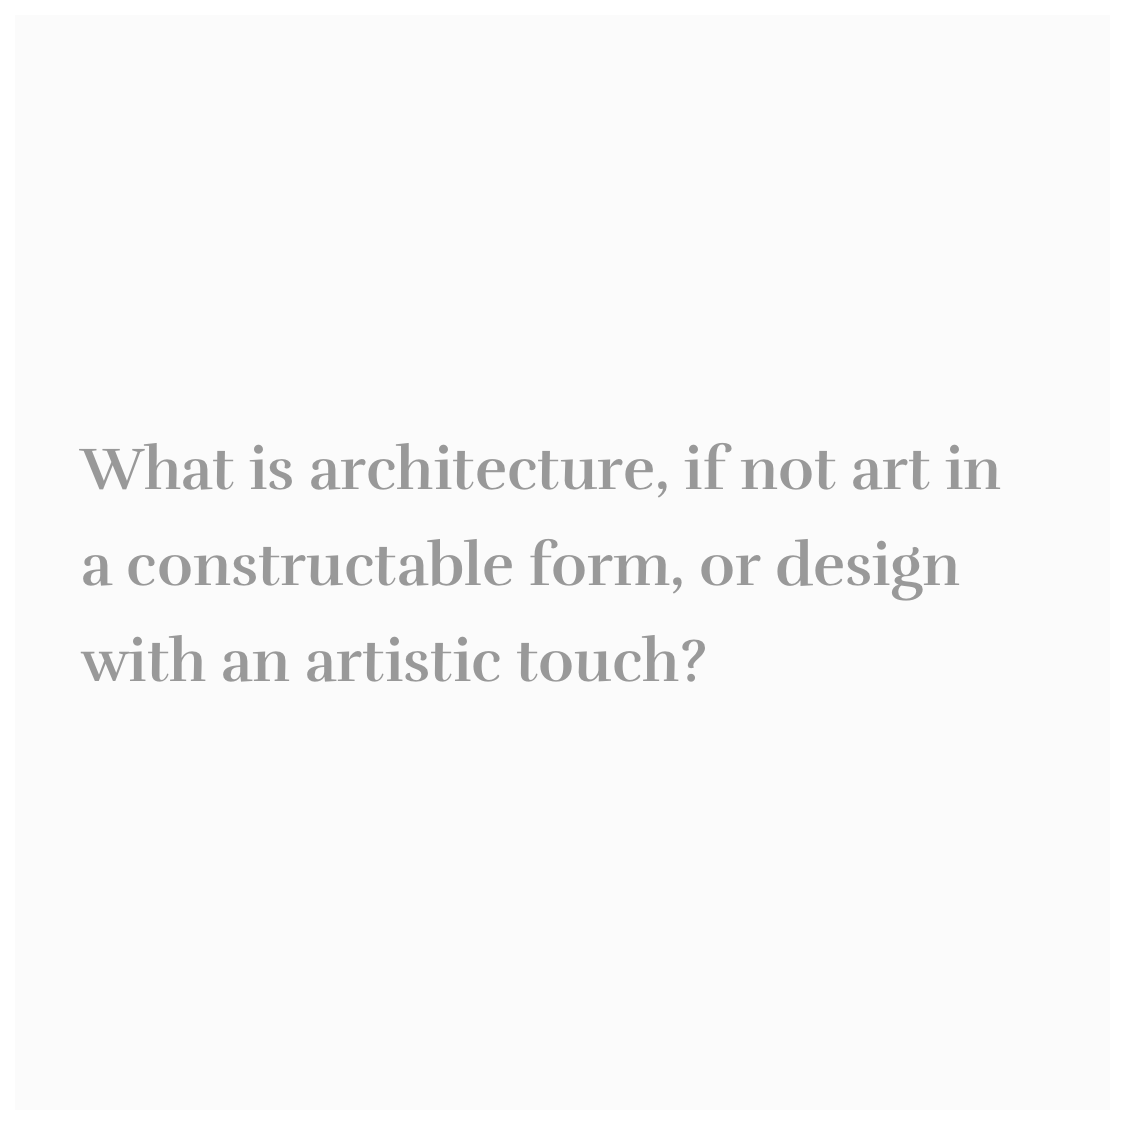
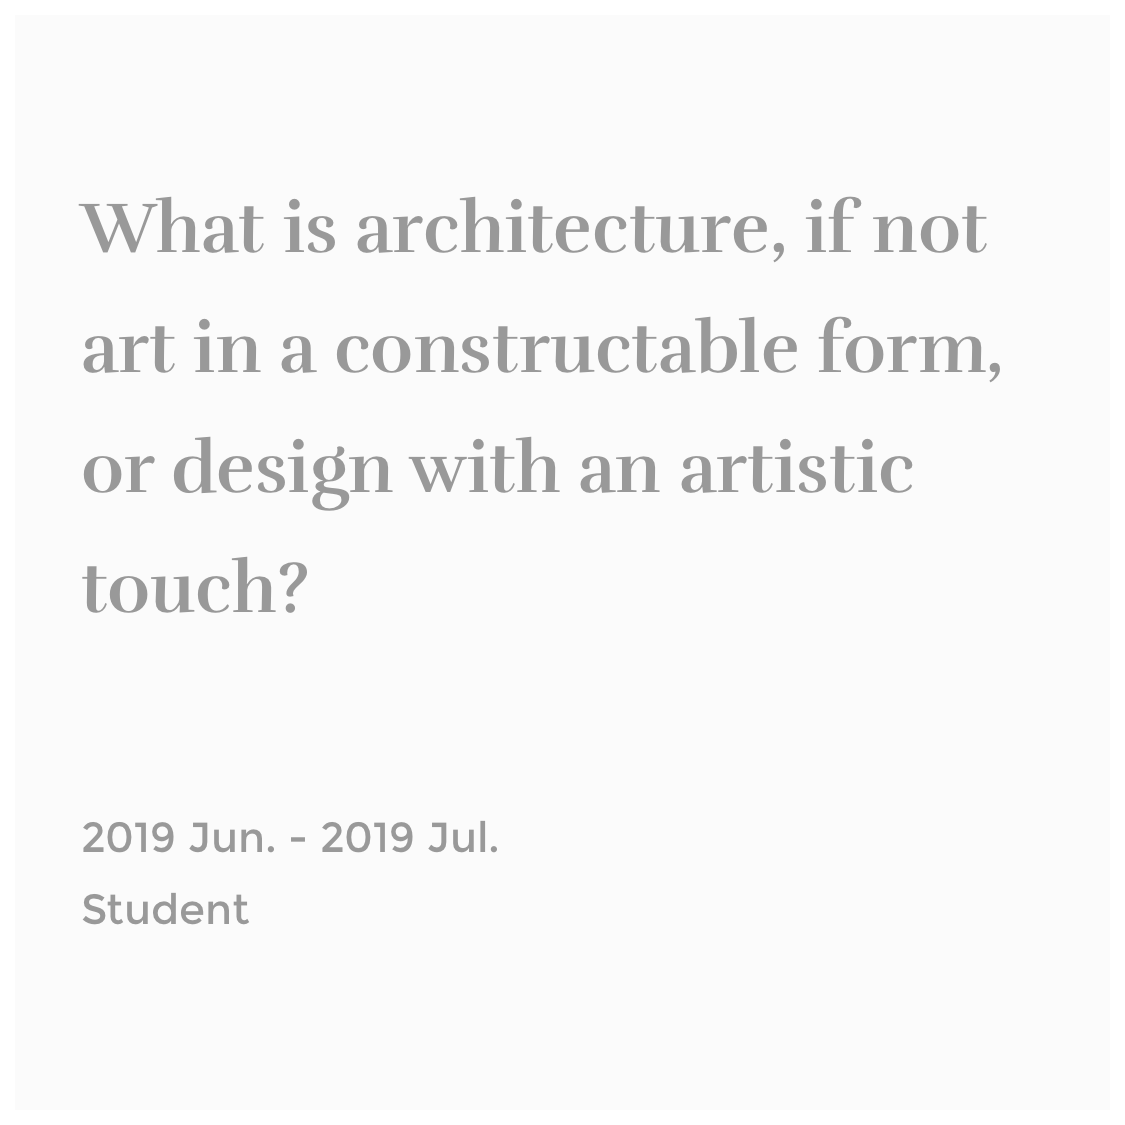
Some updates on the PFM page. With additional images.

diff --git a/work-juggle.html b/work-juggle.html
@@ -260,23 +260,27 @@
 
 
                        <p>To tie back to our potential service offerings, I decided to trim down the solution approach, starting from the tone of approach, to some of the key engagement points through a customer's journey. Thereafter generalized the common problems they are facing, and proposed a solution applicable to those problems. </p>
-                       <figure>
-                            <img src="img/work-pfm/part2-pfm-tone.jpg" class="img-content">
-                            <figcaption>Service offering: Tone of approach </figcaption>
-                            <div class="h-30"></div>
 
-                            <img src="img/work-pfm/part2-pfm-engagement.jpg" class="img-content">
-                            <figcaption>Service offering: Points of engagement (Overview) </figcaption>
-                            <div class="h-30"></div>
+                        <button class="accordion"> The process in more details </button>
+                        <div class="panel"> 
+                           <figure>
+                                <img src="img/work-pfm/part2-pfm-tone.jpg" class="img-content">
+                                <figcaption>Service offering: Tone of approach </figcaption>
+                                <div class="h-30"></div>
 
-                            <img src="img/work-pfm/part2-pfm-problems.jpg" class="img-content">
-                            <figcaption>Service offering: List of common problems </figcaption>
-                            <div class="h-30"></div>
+                                <img src="img/work-pfm/part2-pfm-engagement.jpg" class="img-content">
+                                <figcaption>Service offering: Points of engagement (Overview) </figcaption>
+                                <div class="h-30"></div>
 
-                            <img src="img/work-pfm/part2-pfm-solutions.jpg" class="img-content">
-                            <figcaption>Service offering: List of proposed solutions </figcaption>
-                            <div class="h-30"></div>
-                        </figure>
+                                <img src="img/work-pfm/part2-pfm-problems.jpg" class="img-content">
+                                <figcaption>Service offering: List of common problems </figcaption>
+                                <div class="h-30"></div>
+
+                                <img src="img/work-pfm/part2-pfm-solutions.jpg" class="img-content">
+                                <figcaption>Service offering: List of proposed solutions </figcaption>
+                                <div class="h-30"></div>
+                            </figure>
+                        </div>
 
                        <p>This is where I concluded with the key focus point and the overall directions of the solutions:  </p>
                        <figure>
@@ -293,6 +297,136 @@
             </section>            
 
 
+           <!-- content sub section-->
+            <section>
+                <div class="row page-info">
+                    <div class="col-lg-4 col-md-4 col-sm-12 col-xs-12">
+                        <h4>PFM Strategies</h4>                      
+                    </div>
+                    <div class="col-lg-8 col-md-8 col-sm-12 col-xs-12">
+                        <div class="page-content">
+
+                       <p>Introducing the main characters:  </p>
+                       <figure>
+                            <img src="img/work-pfm/part3-pfm-characters.jpg" class="img-content">
+                            <figcaption>Introducing the main characters </figcaption>
+                            <div class="h-30"></div>
+                        </figure>
+
+                        <figure>
+                            <img src="img/work-pfm/part3-pfm-concept.jpg" class="img-content" onclick="document.getElementById('concepts').style.display='block'" id="myImg">
+
+                            <div id="concepts" class="modal">
+                                  <span class="close" onclick="document.getElementById('concepts').style.display='none'">&times;</span>
+                                  <div id="caption">A concept explanation </div>
+                                  <img src="img/work-pfm/part3-pfm-concept.jpg" class="modal-content">
+                            </div>
+                            <figcaption>A concept explanation </figcaption>
+                        </figure>                            
+
+
+                        <button class="accordion"> See our main characters in their more specific use cases </button>
+                        <div class="panel"> 
+                           <figure>
+                                <img src="img/work-pfm/part3-pfm-case1.jpg" class="img-content">
+                                <figcaption>User case I: When there is extra disposable cash </figcaption>
+                                <div class="h-30"></div>
+
+                                <img src="img/work-pfm/part3-pfm-case2.jpg" class="img-content">
+                                <figcaption>User case II: Excess amount in long term goal saving </figcaption>
+                                <div class="h-30"></div>
+
+                                <img src="img/work-pfm/part3-pfm-case3.jpg" class="img-content">
+                                <figcaption>User case III: Insufficient urgent usage </figcaption>
+                                <div class="h-30"></div>
+
+                                <img src="img/work-pfm/part3-pfm-case4.jpg" class="img-content">
+                                <figcaption>User case IV: When there is bonus/unexpected income </figcaption>
+                                <div class="h-30"></div>
+                            </figure>
+                        </div>
+                        <div class="h-30"></div>
+
+                        <p>With all the different resolutions, the next question is how do we prioritize them?  </p>
+
+                       <figure>
+                            <img src="img/work-pfm/part3-pfm-prioritization.jpg" class="img-content">
+                            <figcaption>Prioritization, in terms of importance, urgency, emotional responses </figcaption>
+                            <div class="h-30"></div>
+                        </figure>
+
+                        </div>
+                    </div>
+                </div>
+            </section>            
+
+
+           <!-- content sub section-->
+            <section>
+                <div class="row page-info">
+                    <div class="col-lg-4 col-md-4 col-sm-12 col-xs-12">
+                        <h4>Extended examples & design </h4>                      
+                    </div>
+                    <div class="col-lg-8 col-md-8 col-sm-12 col-xs-12">
+                        <div class="page-content">
+
+                        <p>Finally this project is moving to actual designing phase:</p>
+
+                       <figure>
+                            <img src="img/work-pfm/part4-pfm-user.jpg" class="img-content">
+                            <figcaption>Drafting a demographic profile of our target user </figcaption>
+                            <div class="h-30"></div>
+
+                            <img src="img/work-pfm/part4-pfm-family.jpg" class="img-content">
+                            <figcaption>User's family profile (Yes, whenever I have a chance to use Chinese > <) </figcaption>
+                            <div class="h-30"></div>
+
+                            <img src="img/work-pfm/part4-pfm-goals.jpg" class="img-content">
+                            <figcaption>Based on the strategy in previous section, the recommended goals based on their current performances.  </figcaption>
+                            <div class="h-30"></div>
+
+                        </figure>
+
+                        <p>Design concept I - Goals tracker</p>
+
+                       <figure>
+                            <img src="img/work-pfm/part4-design-journey.jpg" class="img-content">
+                            <figcaption>Project the recommended goals on a timeline; Story-telling approach, a narrative</figcaption>
+                            <div class="h-30"></div>
+
+                            <img src="img/work-pfm/part4-design-longterm.jpg" class="img-content">
+                            <figcaption>Providing small nuggets for our users to fulfill their goals </figcaption>
+                            <div class="h-30"></div>
+                        </figure>
+
+                        <p>Design concept II - Goaldians of the galaxy</p>
+                        <figure>
+                            <img src="img/work-pfm/part4-design-galaxy.jpg" class="img-content" onclick="document.getElementById('galaxy').style.display='block'" id="myImg">
+
+                            <div id="galaxy" class="modal">
+                                  <span class="close" onclick="document.getElementById('galaxy').style.display='none'">&times;</span>
+                                  <img src="img/work-pfm/part4-design-galaxy.jpg" class="modal-content">
+                            </div>
+                            <figcaption>A family is a galaxy. Keep track of every important planet in the same place. </figcaption>
+                        </figure>   
+
+                        <p>Design concept III - Grant a wish</p>
+                        <figure>
+                            <img src="img/work-pfm/part4-design-wish.jpg" class="img-content" onclick="document.getElementById('wish').style.display='block'" id="myImg">
+
+                            <div id="wish" class="modal">
+                                  <span class="close" onclick="document.getElementById('wish').style.display='none'">&times;</span>
+                                  <img src="img/work-pfm/part4-design-wish.jpg" class="modal-content">
+                            </div>
+                            <figcaption>When there's free to spend money, make a new wish instead of spending them.</figcaption>
+                        </figure>                            
+
+                        </div>
+
+                        <div class="h-30"></div>
+                    </div>
+                </div>
+            </section>   
   
 
             <!-- content sub section endnote-->

diff --git a/work-service.html b/work-service.html
@@ -86,7 +86,7 @@
                     </div>
                     <div class="col-lg-8 col-md-8 col-sm-12 col-xs-12">
                         <div class="page-content">
-                            <p> After being driven by the requirements for so long, we had a regroup within the design team to identify the most pressing needs of our customers. Our insights narrowed down to 6 mighty pots, "Someone help me" became one of them. And I've been one of the mightiest force of this pot since, no exaggeration. </p>
+                            <p> After being driven by the requirements for so long, we had a regroup within the design team to identify the most pressing needs of our customers. Our insights narrowed down to 6 mighty pots, "Someone help me" became one of them. </p>
                         </div>
                         <div class="h-30"></div>
                     </div>
